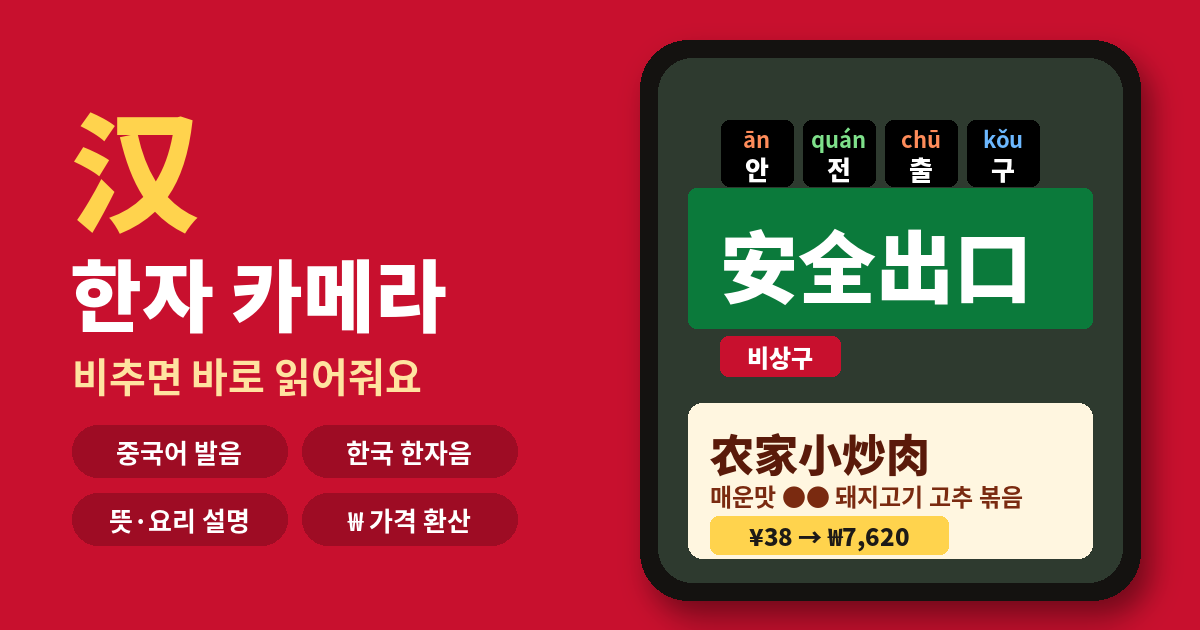
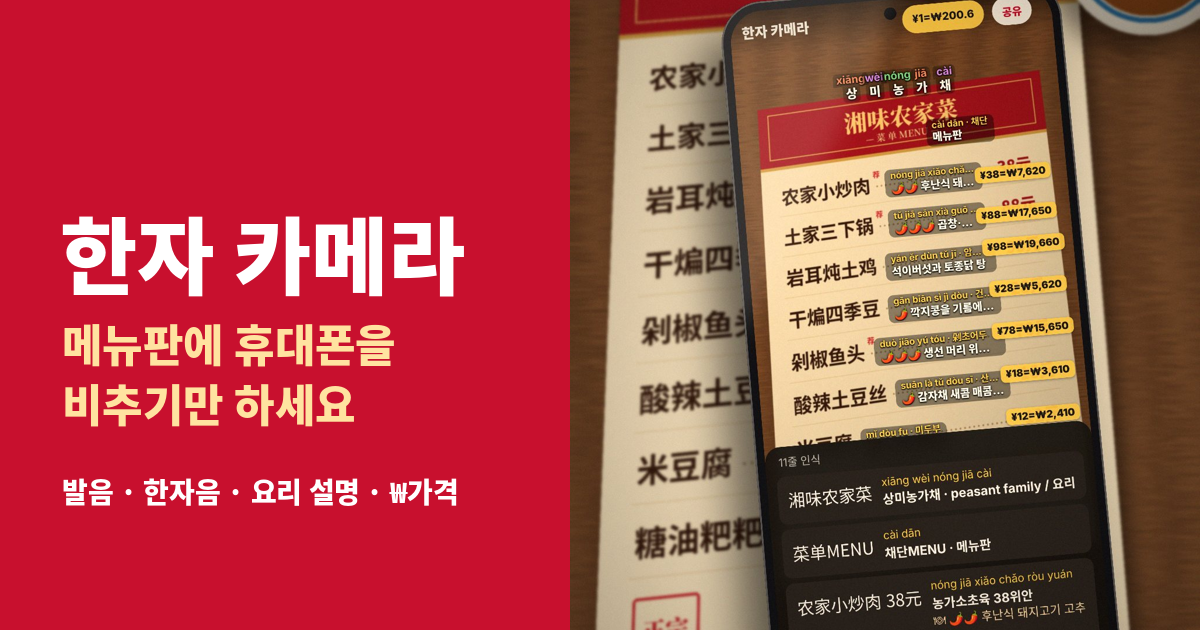
첫 화면·미리보기에 실제 앱 화면으로 만든 사진 이미지
Claude-Session: https://claude.ai/code/session_01C65kRFB8haJ9bRjm9heZHH

diff --git a/index.html b/index.html
@@ -142,6 +142,7 @@ em{font-style:normal;font-size:11px;background:#e9e2d8;color:#6b625a;border-radi
 .fingers i{display:block;height:34px;border-radius:0 18px 18px 0;background:linear-gradient(90deg,#c88a62,#efc29e 55%,#d79a72);box-shadow:3px 4px 6px rgba(0,0,0,.35)}
 .fingers i:nth-child(2){height:36px}.fingers i:nth-child(3){height:30px;width:90%}
 .phone3{z-index:2}
+.hero{display:block;width:calc(100% + 44px);max-width:none;margin:0 -22px;height:auto;max-height:62vh;object-fit:cover;object-position:50% 30%}
 .pills{display:grid;grid-template-columns:1fr 1fr;gap:8px}
 .pills span{background:#9e0c24;color:#fff;border-radius:999px;text-align:center;font-weight:800;font-size:15px;padding:9px 6px}
 #start{min-height:56px;border:0;border-radius:16px;background:#fff;color:#c8102e;font-weight:900;font-size:19px;font-family:inherit}
@@ -168,45 +169,7 @@ em{font-style:normal;font-size:11px;background:#e9e2d8;color:#6b625a;border-radi
 <div id="sheet" hidden><div id="dbox"><button id="close" type="button" aria-label="닫기">✕</button><div id="dt"></div></div></div>
 <div id="intro"><div class="iw">
   <h2>한자 카메라</h2>
-  <div class="scene" aria-hidden="true">
-    <div class="table"></div>
-    <div class="cup"><i></i></div>
-    <div class="sticks"><i></i><i></i></div>
-    <div class="bowl"></div>
-    <div class="paper">
-      <div class="ph1 hz"><span>湘</span>农家菜 · 菜单</div>
-      <p class="mi hz"><span>农家小炒肉</span><i></i><span>38元</span></p>
-      <p class="mi hz"><span>土家三下锅</span><i></i><span>88元</span></p>
-      <p class="mi hz"><span>岩耳炖土鸡</span><i></i><span>98元</span></p>
-      <p class="mi hz"><span>干煸四季豆</span><i></i><span>28元</span></p>
-      <p class="mi hz"><span>酸辣土豆丝</span><i></i><span>18元</span></p>
-      <p class="mi hz"><span>米豆腐</span><i></i><span>12元</span></p>
-    </div>
-    <div class="phone3">
-      <span class="btn1"></span><span class="btn2"></span>
-      <div class="scr3">
-        <div class="cam">
-          <div class="feed hz">
-            <div class="sel"><p class="fl"><span class="fc"><em class="t2">nóng</em><u>농</u>农</span><span class="fc"><em class="t1">jiā</em><u>가</u>家</span><span class="fc"><em class="t3">xiǎo</em><u>소</u>小</span><span class="fc"><em class="t3">chǎo</em><u>초</u>炒</span><span class="fc"><em class="t4">ròu</em><u>육</u>肉</span><span class="fp">38元</span></p>
-            </div><p class="fb">🌶🌶 돼지고기 고추 볶음</p><br><span class="tagw2">¥38 ≈ ₩7,620</span>
-            <p class="fl2">土家三下锅 <span class="fp">88元</span></p><p class="fl2">岩耳炖土鸡 <span class="fp">98元</span></p><p class="fl2">干煸四季豆 <span class="fp">28元</span></p>
-          </div>
-          
-        </div>
-        <div class="bar3"><span>사진</span><span class="stop">멈추기</span><span>손전등</span></div>
-        <span class="hole"></span>
-      </div>
-      <span class="glare"></span>
-      <svg class="hand" viewBox="0 0 200 200" aria-hidden="true">
-        <defs><linearGradient id="sk" x1="0" y1="0" x2="1" y2="1"><stop offset="0" stop-color="#f1c6a2"/><stop offset=".6" stop-color="#dfa47c"/><stop offset="1" stop-color="#c88a62"/></linearGradient>
-        <linearGradient id="sk2" x1="0" y1="0" x2="1" y2="0"><stop offset="0" stop-color="#c88a62"/><stop offset=".45" stop-color="#efc29e"/><stop offset="1" stop-color="#d79a72"/></linearGradient></defs>
-        <path d="M30 200 C 30 150, 55 120, 95 112 L 160 108 C 185 110, 200 130, 200 160 L 200 200 Z" fill="url(#sk)"/>
-        <path d="M40 150 C 20 120, 18 95, 30 78 C 38 68, 52 70, 56 82 C 62 100, 66 118, 78 132 Z" fill="url(#sk2)"/>
-        <ellipse cx="36" cy="80" rx="9" ry="7" fill="#f6d6bd" opacity=".8" transform="rotate(-30 36 80)"/>
-      </svg>
-      <div class="fingers"><i></i><i></i><i></i></div>
-    </div>
-  </div>
+  <img class="hero" src="intro.jpg" alt="메뉴판에 휴대폰을 비추자 요리 이름 위에 발음과 설명, 원화 가격이 뜬 모습" width="1080" height="1500">
   <p class="tag">메뉴판에 휴대폰을 비추기만 하세요</p>
   <button id="start" type="button">카메라 켜기</button>
   <button id="install" type="button" hidden>📲 홈 화면에 앱으로 설치</button>

diff --git a/sw.js b/sw.js
@@ -1,5 +1,5 @@
-const C='hanzi-cam-v20';
-const PRE=['./','index.html','app.js','hun.json','words.json','ko.json','food.json','en.json','manifest.json','icon-192.png','models/ch_PP-OCRv4_det_infer.onnx','models/ch_PP-OCRv4_rec_infer.onnx','models/ppocr_keys_v1.txt','ort/ort-wasm-simd-threaded.mjs','ort/ort-wasm-simd-threaded.wasm'];
+const C='hanzi-cam-v21';
+const PRE=['./','index.html','app.js','hun.json','words.json','ko.json','food.json','en.json','manifest.json','intro.jpg','icon-192.png','models/ch_PP-OCRv4_det_infer.onnx','models/ch_PP-OCRv4_rec_infer.onnx','models/ppocr_keys_v1.txt','ort/ort-wasm-simd-threaded.mjs','ort/ort-wasm-simd-threaded.wasm'];
 self.addEventListener('install',e=>{self.skipWaiting();e.waitUntil(caches.open(C).then(c=>c.addAll(PRE.filter(p=>!p.endsWith('.onnx')&&!p.endsWith('.wasm'))).catch(()=>{})))});
 self.addEventListener('activate',e=>e.waitUntil(caches.keys().then(ks=>Promise.all(ks.filter(k=>k!==C).map(k=>caches.delete(k)))).then(()=>self.clients.claim())));
 self.addEventListener('fetch',e=>{const u=new URL(e.request.url);if(e.request.method!=='GET'||u.origin!==location.origin)return;
